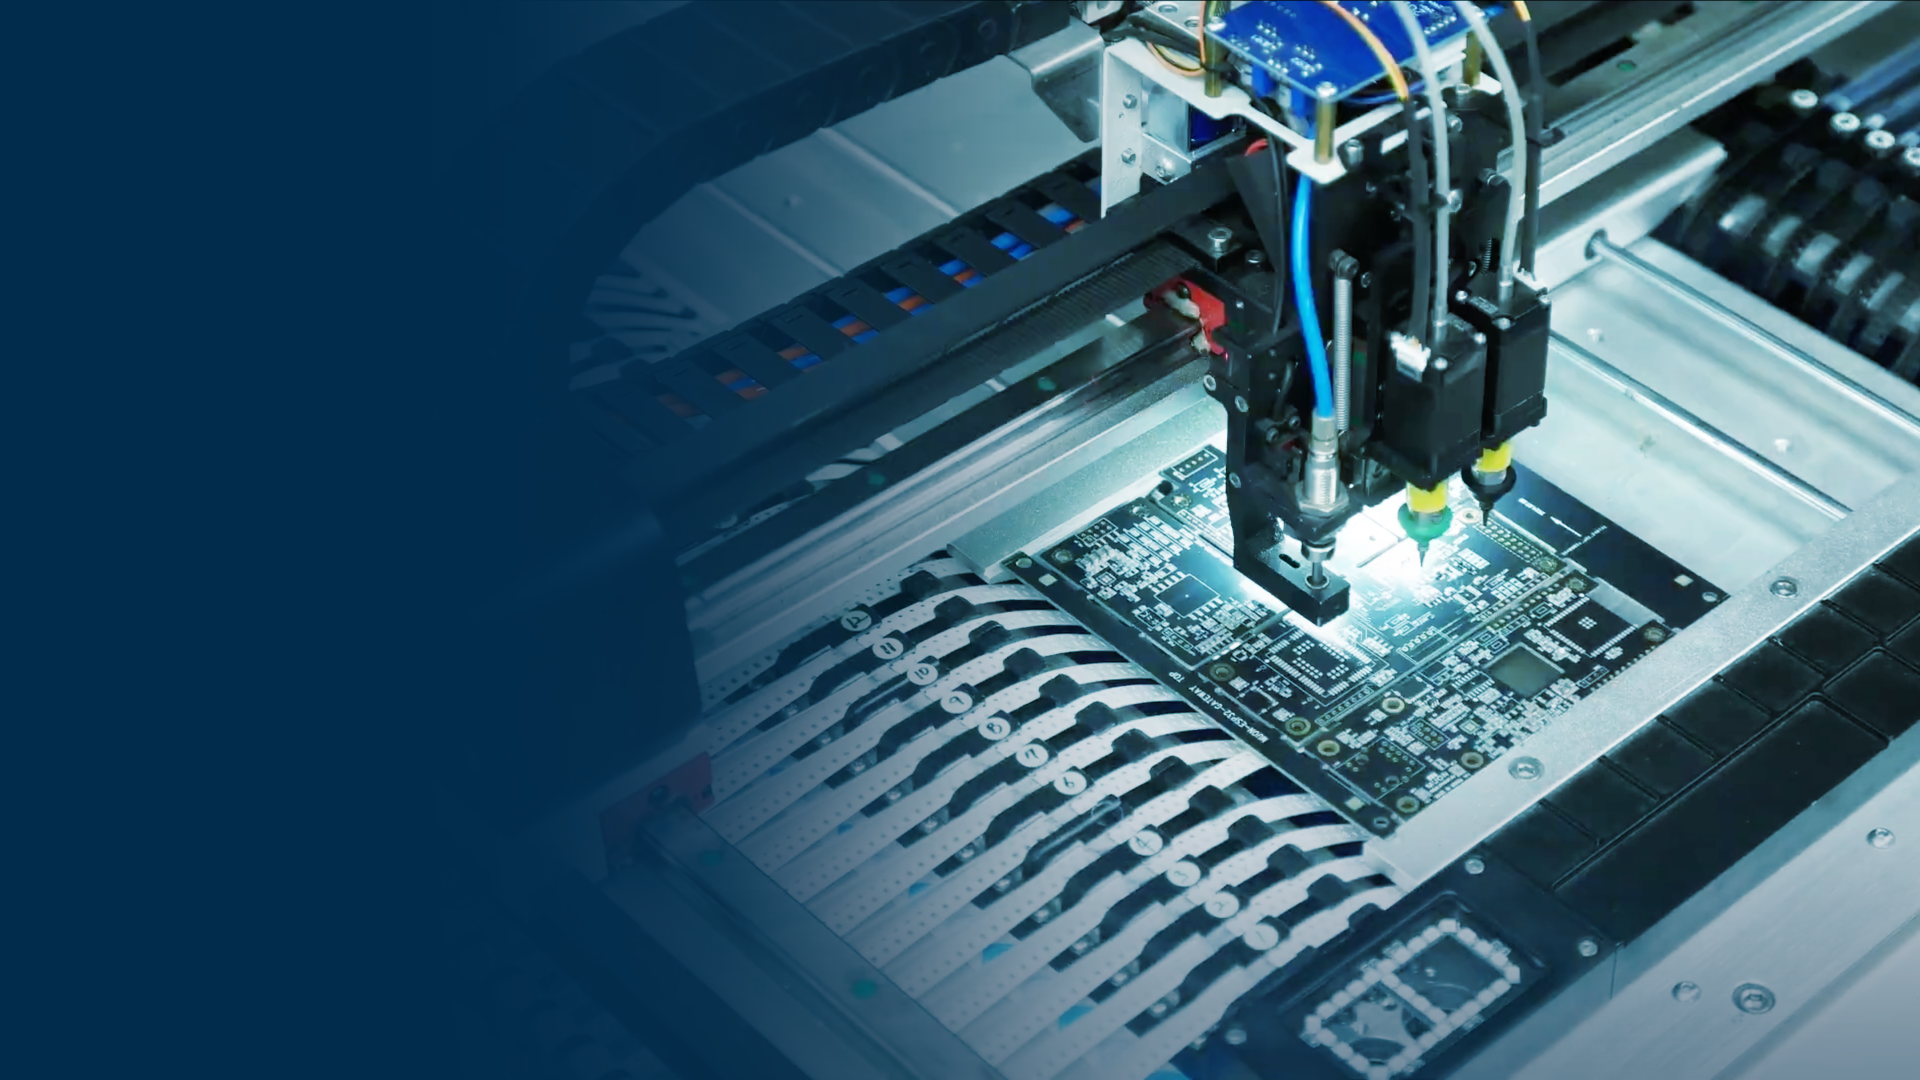
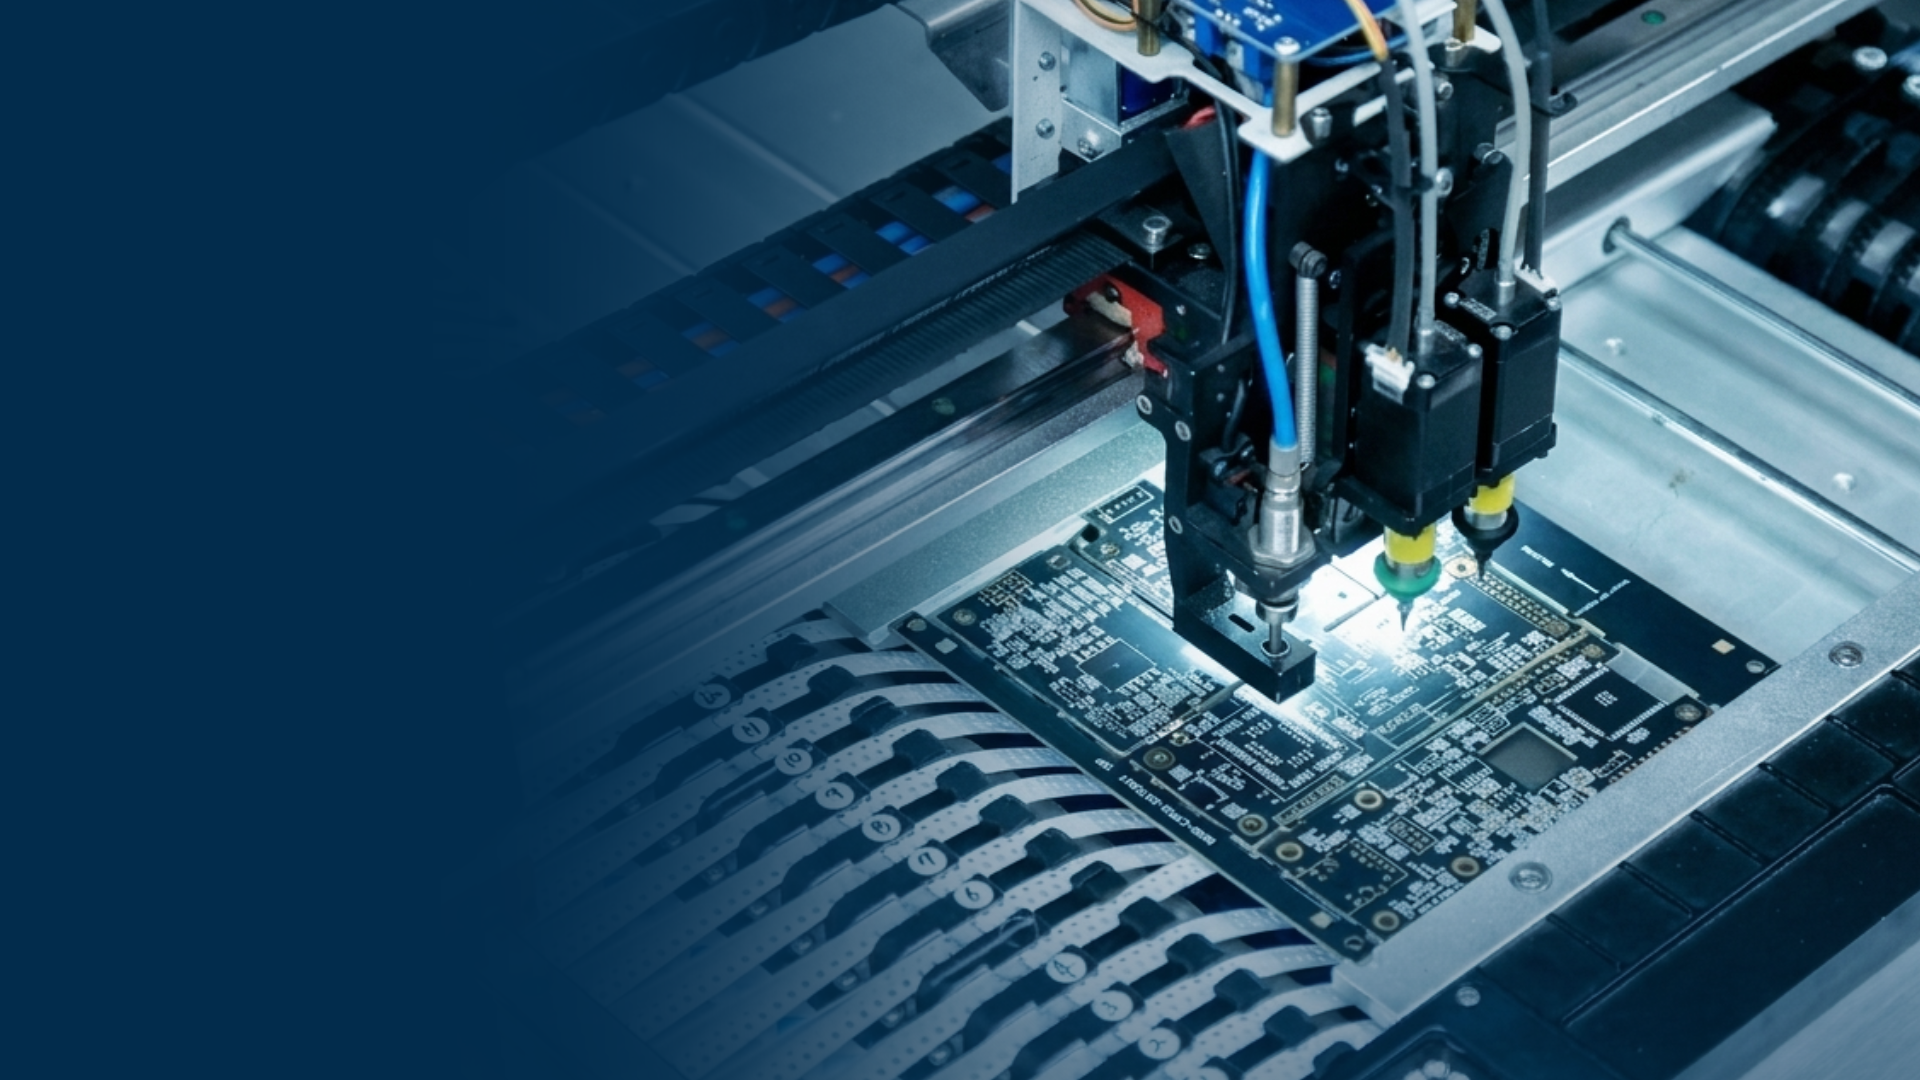
사진변경, logo이미지 포멧형식 png에서 webp로 교체

diff --git a/frontend/templates/macros/header.html b/frontend/templates/macros/header.html
@@ -3,58 +3,60 @@
   <div class="container is-max-desktop px-4">
     <div class="navbar-brand">
       <a class="navbar-item" href="{{ get_url(path='#', trailing_slash=false) }}">
-        <img src="{{ get_url(path='/images/MUON-Logo-Color.png') }}" width="62">
+        <img src="{{ get_url(path='/images/MUON-Logo-Color.webp') }}" width="62">
       </a>
-  
+
       <a role="button" class="navbar-burger" aria-label="menu" aria-expanded="false" data-target="navMenu">
         <span aria-hidden="true"></span>
         <span aria-hidden="true"></span>
         <span aria-hidden="true"></span>
       </a>
     </div>
-  
+
     <div id="navMenu" class="navbar-menu">
       <div class="navbar-start">
         {%- if config.extra.menu.nav -%}
-          {%- for item in config.extra.menu.nav -%}
-            {%- if item.subitems -%}
-              <div class="navbar-item has-dropdown is-hoverable">
-                <a class="navbar-item{% if current_section == item.section %}{{ ' has-text-white' }}{% else %}{{ ' has-text-grey-lighter' }}{% endif %}" href="{{ get_url(path=item.url, trailing_slash=false) | safe }}">
-                  {{ item.name }}
-                </a>
-                <div class="navbar-dropdown">
-                  {%- for subitem in item.subitems -%}
-                    <a class="navbar-item" href="{{get_url(path=subitem.href, trailing_slash=false)}}">
-                      {{ subitem.name }}
-                    </a>
-                  {%- endfor -%}
-                </div>
-              </div>
-            {% else %}
-              <a class="navbar-item{% if current_section == item.section %}{{ ' has-text-white' }}{% else %}{{ ' has-text-grey-lighter' }}{% endif %}" href="{{ get_url(path=item.url, trailing_slash=false) | safe }}">
-                {{ item.name }}
-              </a>
-            {%- endif -%}
-          {%- endfor -%}
+        {%- for item in config.extra.menu.nav -%}
+        {%- if item.subitems -%}
+        <div class="navbar-item has-dropdown is-hoverable">
+          <a class="navbar-item{% if current_section == item.section %}{{ ' has-text-white' }}{% else %}{{ ' has-text-grey-lighter' }}{% endif %}"
+            href="{{ get_url(path=item.url, trailing_slash=false) | safe }}">
+            {{ item.name }}
+          </a>
+          <div class="navbar-dropdown">
+            {%- for subitem in item.subitems -%}
+            <a class="navbar-item" href="{{get_url(path=subitem.href, trailing_slash=false)}}">
+              {{ subitem.name }}
+            </a>
+            {%- endfor -%}
+          </div>
+        </div>
+        {% else %}
+        <a class="navbar-item{% if current_section == item.section %}{{ ' has-text-white' }}{% else %}{{ ' has-text-grey-lighter' }}{% endif %}"
+          href="{{ get_url(path=item.url, trailing_slash=false) | safe }}">
+          {{ item.name }}
+        </a>
+        {%- endif -%}
+        {%- endfor -%}
         {%- endif -%}
       </div>
       <div class="navbar-end">
         {% if config.build_search_index %}
-          <form class="navbar-item search-form" onsubmit="return goSearch(event)">
-            <p class="control has-icons-left">
-              <input class="input is-rounded is-small is-info" type="text" placeholder="{{config.extra.search}}" />
-              <span class="icon is-small is-left">
-                <i class="fa fa-search"></i>
-              </span>
-            </p>
-          </form>
+        <form class="navbar-item search-form" onsubmit="return goSearch(event)">
+          <p class="control has-icons-left">
+            <input class="input is-rounded is-small is-info" type="text" placeholder="{{config.extra.search}}" />
+            <span class="icon is-small is-left">
+              <i class="fa fa-search"></i>
+            </span>
+          </p>
+        </form>
         {% endif %}
         {%- if config.extra.menu.social %}
-          {%- for val in config.extra.menu.social %}
-            <a class="navbar-item has-text-white" href="{{ val.url }}">
-              <i class="{{ val.icon }}"></i>
-            </a>
-          {% endfor %}
+        {%- for val in config.extra.menu.social %}
+        <a class="navbar-item has-text-white" href="{{ val.url }}">
+          <i class="{{ val.icon }}"></i>
+        </a>
+        {% endfor %}
         {% endif %}
       </div>
     </div>
